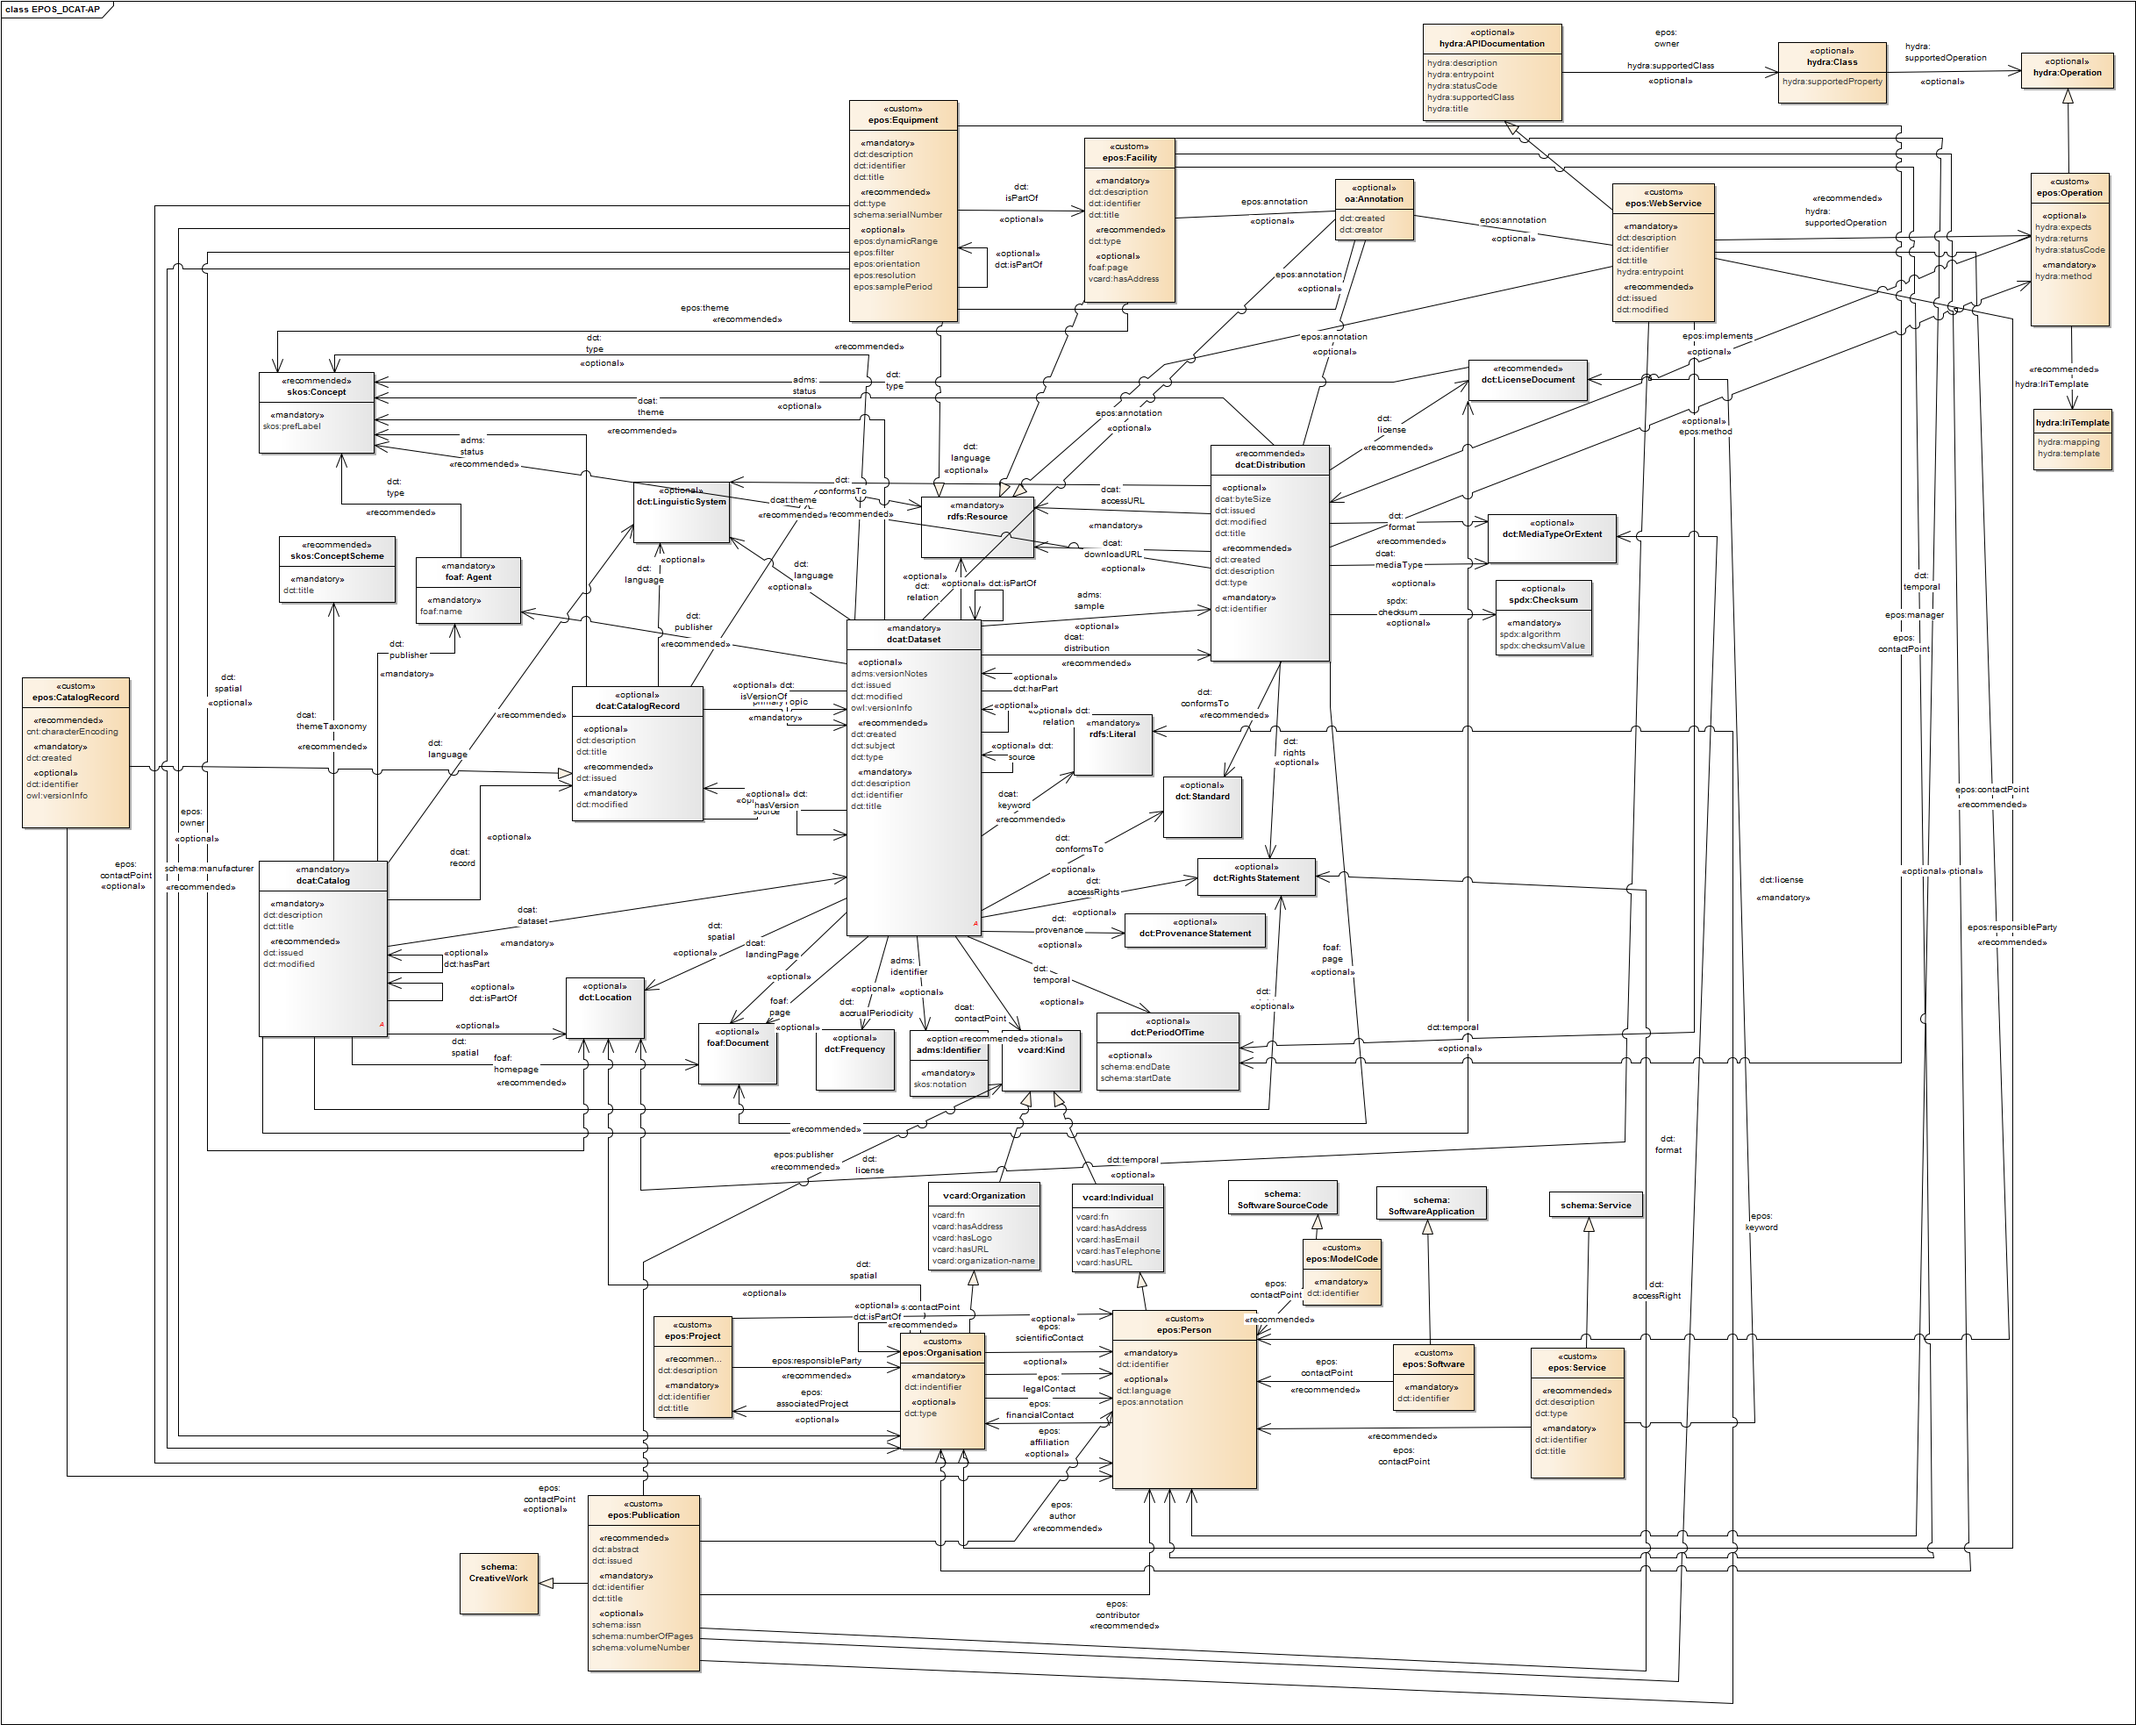
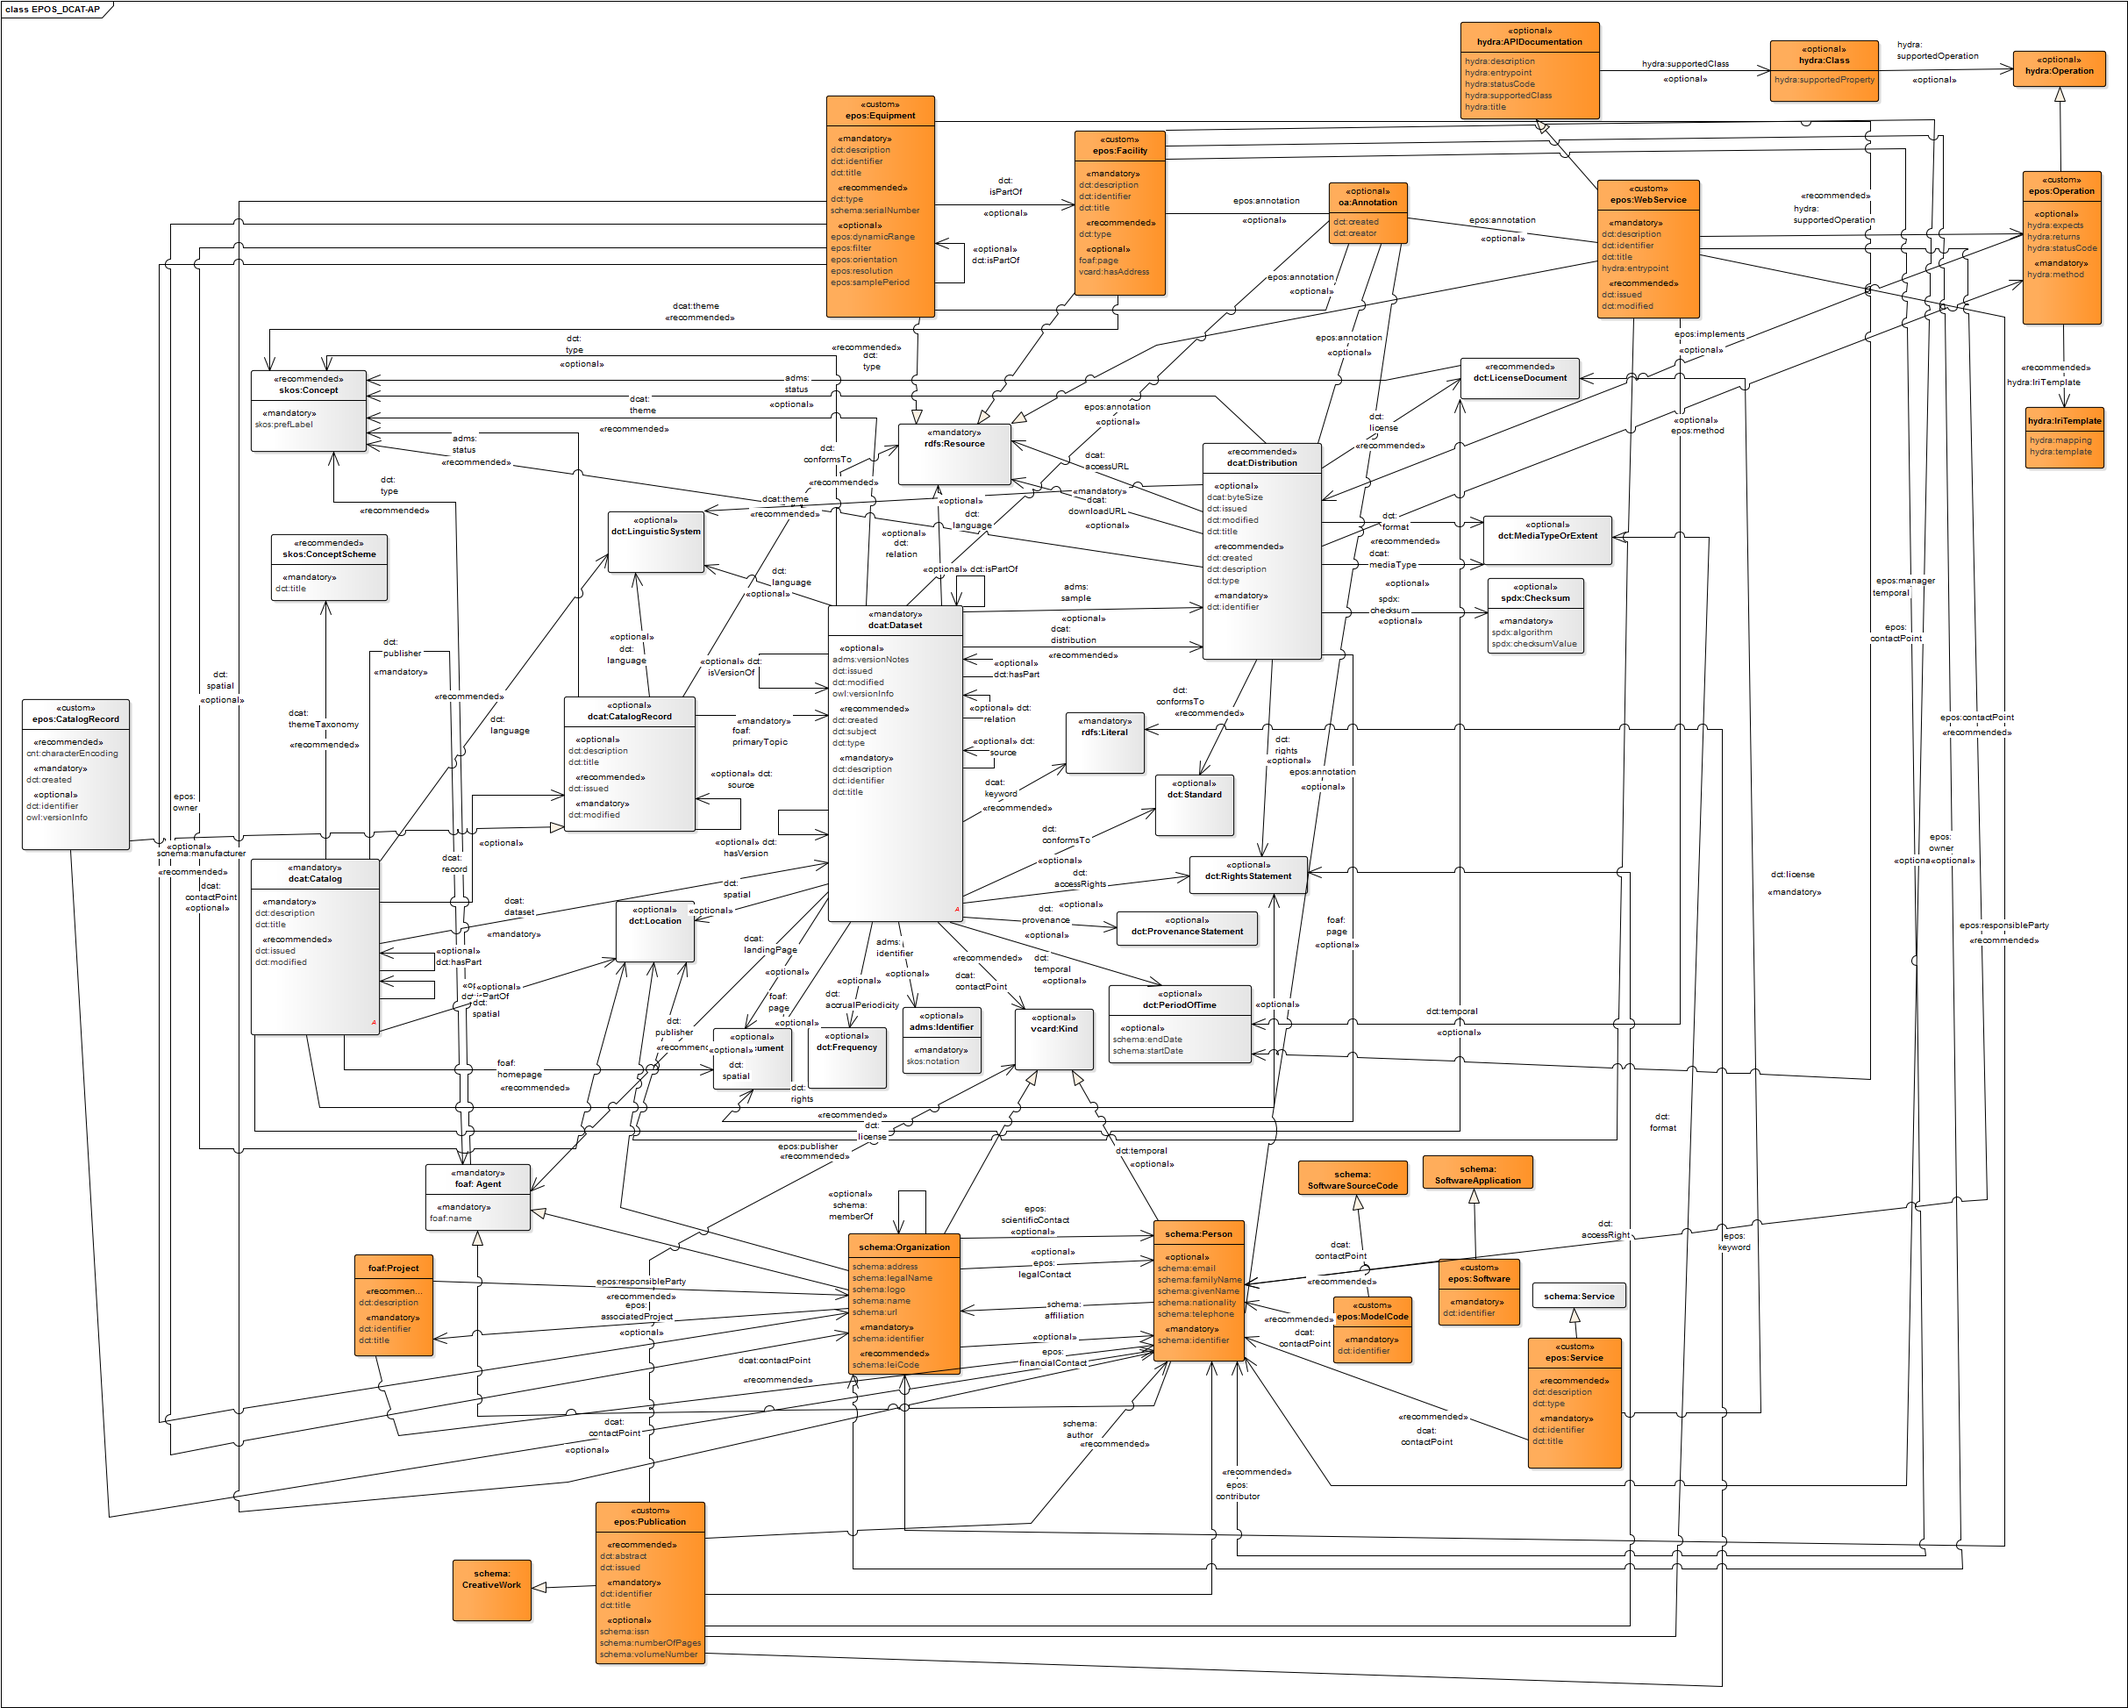
Person and Organization re-defined

diff --git a/README.md b/README.md
@@ -3,9 +3,10 @@ This project implements an extension of the DCAT-AP for the EPOS Research Infras
 
 Main features of this profile are:
 * Support for additional entities such as: Organisation, Person, Facility, Publication, Software, Service, Project, Equipment, WebService
-* Characterisation of APIs (using the hydra vocabulary www.hydra-cg.com/spec/latest/core/) 
-* Additional roles
+* Characterisation of APIs and Webservice for data access (using the hydra vocabulary www.hydra-cg.com/spec/latest/core/) 
+* Additional roles (epos:contactPoint extends dcat:contactPoint; scientificContact, responsibleParty etc  )
 * Support for annotations
 * Representation with RDF + Shapes (https://www.w3.org/TR/shacl/)
+* Support for data collections (i.e. Dataset dct:isPartOf, dct:hasPart)
 
  
